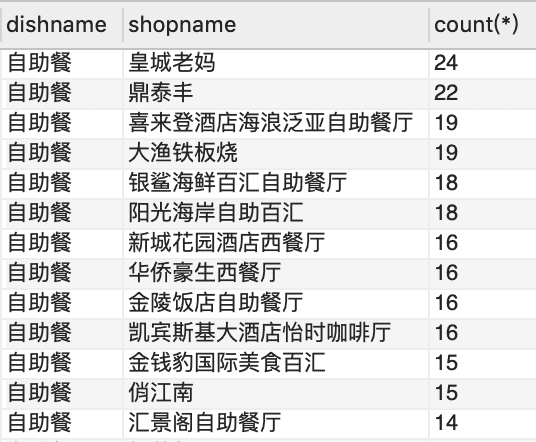
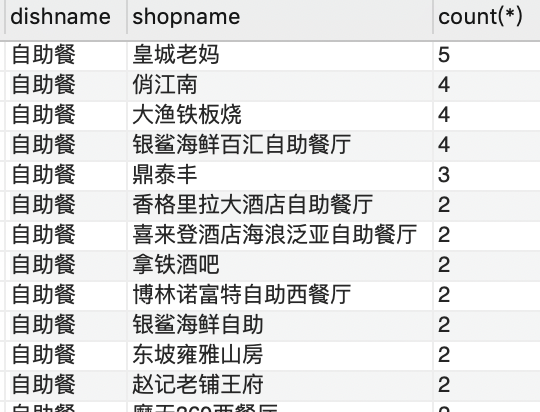
update

Changed region(s): [[0.0, 0.0, 1.0, 1.0], [0.806, 0.3204, 0.8657, 1.0], [0.806, 0.2621, 0.8657, 0.2913]]

diff --git a/資料庫管理/作業/菜系分析.md b/資料庫管理/作業/菜系分析.md
@@ -211,13 +211,13 @@ order by count(*) desc
 
 ### 6. 在100-200價位有哪些成功的「自助餐」企業可以參考？
 
-- 可以參考陽光海岸自助百匯，因為它是單價*數量最高的自助餐店
-- 可以參考皇城老媽，因為它是數量最多的連鎖自助餐
+- 可以參考`陽光海岸自助百匯`，因為它是`平均單價*分店數量`最高的自助餐店
+- 可以參考`皇城老媽`，因為它是數量最多的連鎖自助餐
 
 
 
 ![RelationShip](./07.png)
-SQL1:根據「單價*數量」列出大陸地區的自助餐店
+SQL1:根據「單價*評論數量」列出大陸地區的自助餐店
 ```sql
 select dish.dishname,shopname,count(*),shop.avgprice, count(*)*shop.avgprice as profit from 
 shop.shopdish, 
@@ -237,11 +237,10 @@ SQL1:列出大陸地區「連鎖數量」最多的自助餐店
 ```sql
 select dish.dishname,shopname,count(*) from 
 shop.shopdish, 
-shop.shopcomment,
-shop.shop,shop.dish 
+shop.shop,
+shop.dish 
 where dish.dishid = shopdish.dishid 
 AND shopdish.shopid = shop.shopid 
-AND shop.shopid = shopcomment.shopid 
 AND dish.dishname = '自助餐'
 AND shop.avgprice <=200 AND  shop.avgprice >=100
 group by shopname
